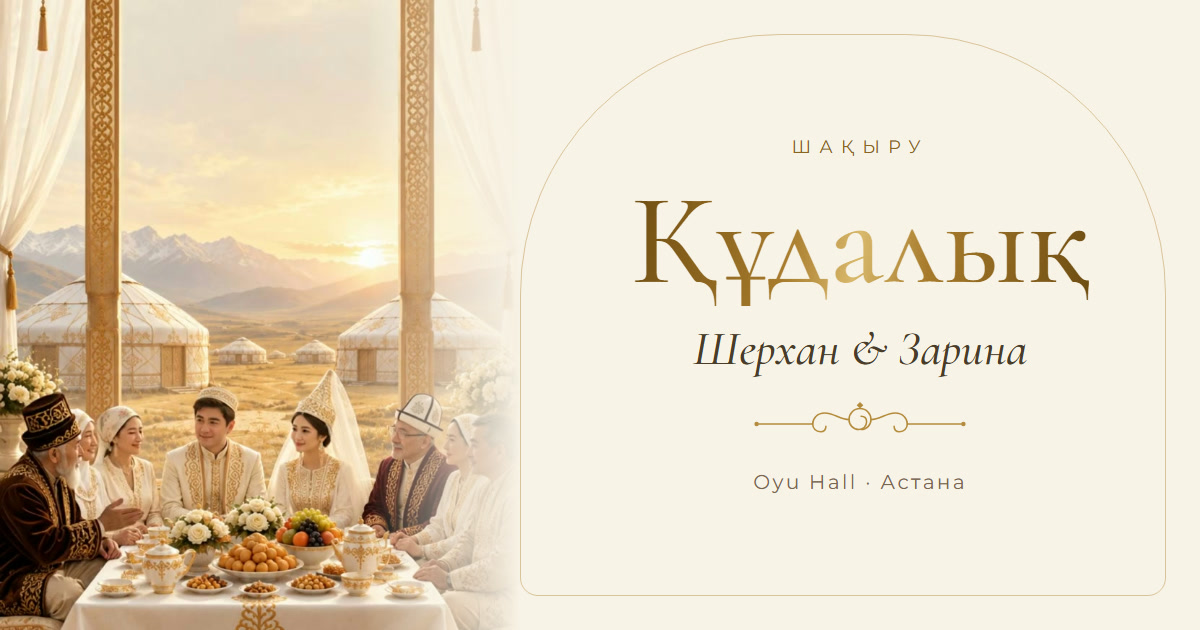
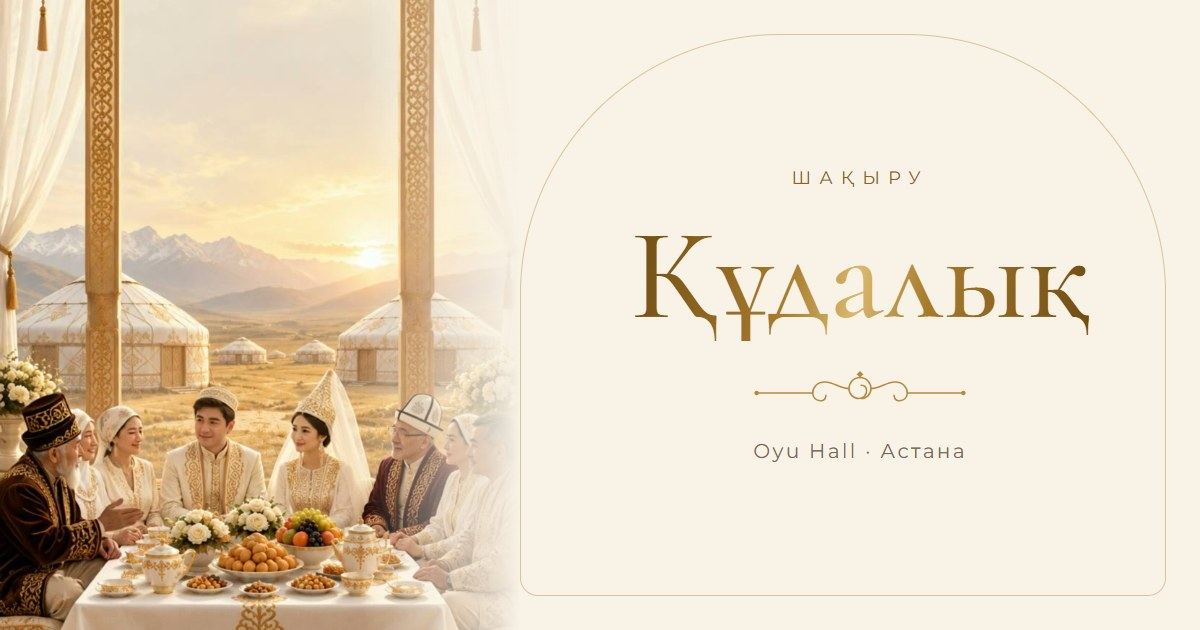
ыв

diff --git a/index.html b/index.html
@@ -3,8 +3,8 @@
 <head>
 <meta charset="utf-8">
 <meta name="viewport" content="width=device-width, initial-scale=1, viewport-fit=cover">
-<title>Құдалық · Шерхан & Зарина</title>
-<meta name="description" content="Құрметті қонақтар! Сіздерді Шерхан мен Заринаның құдалық салтанатына шақырамыз. Oyu Hall, Астана.">
+<title>Шақыру</title>
+<meta name="description" content="Құрметті қонақтар! Сіздерді құдалық салтанатымызға шақырамыз. Oyu Hall, Астана.">
 <link rel="icon" type="image/png" sizes="32x32" href="assets/favicon-32.png">
 <link rel="icon" type="image/png" sizes="192x192" href="assets/icon-192.png">
 <link rel="apple-touch-icon" href="assets/apple-touch-icon.png">
@@ -13,13 +13,13 @@
 <!-- Link previews (WhatsApp, Telegram, Instagram). After deploy, make og:image / og:url absolute: https://your-site/... -->
 <meta property="og:type" content="website">
 <meta property="og:locale" content="kk_KZ">
-<meta property="og:site_name" content="Құдалық">
-<meta property="og:title" content="Құдалық · Шерхан & Зарина">
+<meta property="og:site_name" content="Шақыру">
+<meta property="og:title" content="Шақыру">
 <meta property="og:description" content="Сіздерді құдалық салтанатымыздың қадірлі қонағы болуға шақырамыз! Oyu Hall, Астана">
-<meta property="og:image" content="assets/og.jpg">
+<meta property="og:image" content="assets/og.jpg?v=2">
 <meta property="og:image:width" content="1200">
 <meta property="og:image:height" content="630">
-<meta property="og:image:alt" content="Құдалық — Шерхан & Зарина">
+<meta property="og:image:alt" content="Шақыру — Құдалық">
 <meta name="twitter:card" content="summary_large_image">
 <link rel="preconnect" href="https://fonts.googleapis.com">
 <link rel="preconnect" href="https://fonts.gstatic.com" crossorigin>

diff --git a/_sources/og.html b/_sources/og.html
@@ -9,7 +9,7 @@
   .text { flex: 1; display: flex; flex-direction: column; align-items: center; justify-content: center; text-align: center; padding: 0 50px; position: relative; }
   .text::before { content: ""; position: absolute; inset: 34px 34px 34px 0; border: 1.5px solid rgba(181,138,60,.45); border-radius: 260px 260px 18px 18px; }
   .kicker { font-size: 18px; letter-spacing: .45em; text-transform: uppercase; color: #8a6420; }
-  h1 { font-family: "Cormorant Garamond", serif; font-weight: 500; font-size: 130px; line-height: 1; margin: 18px 0 14px;
+  h1 { font-family: "Cormorant Garamond", serif; font-weight: 500; font-size: 130px; line-height: 1; margin: 22px 0 6px;
        background: linear-gradient(100deg, #6e4c12, #a87a2c 35%, #d9b86c 50%, #a87a2c 65%, #6e4c12); -webkit-background-clip: text; color: transparent; }
   .names { font-family: "Cormorant Garamond", serif; font-style: italic; font-size: 48px; color: #4a3b2a; }
   .orn { width: 220px; color: #b58a3c; margin: 24px 0; }
@@ -20,7 +20,6 @@
   <div class="text">
     <div class="kicker">Шақыру</div>
     <h1>Құдалық</h1>
-    <div class="names">Шерхан &amp; Зарина</div>
     <svg class="orn" viewBox="0 0 200 40"><g fill="none" stroke="currentColor" stroke-width="1.4" stroke-linecap="round"><path d="M100 6c-6 0-10 5-10 10s4 9 9 9c4 0 7-3 7-7 0-3-2-5-5-5"/><path d="M100 6c6 0 10 5 10 10s-4 9-9 9"/><path d="M90 16c-8 0-14-6-22-6-7 0-11 5-11 10 0 4 3 7 7 7 3 0 5-2 5-5"/><path d="M110 16c8 0 14-6 22-6 7 0 11 5 11 10 0 4-3 7-7 7-3 0-5-2-5-5"/><path d="M57 20H8M143 20h49"/></g><g fill="currentColor"><circle cx="6" cy="20" r="2"/><circle cx="194" cy="20" r="2"/><path d="M100 0l3 3-3 3-3-3z"/></g></svg>
     <div class="place">Oyu Hall · Астана</div>
   </div>
